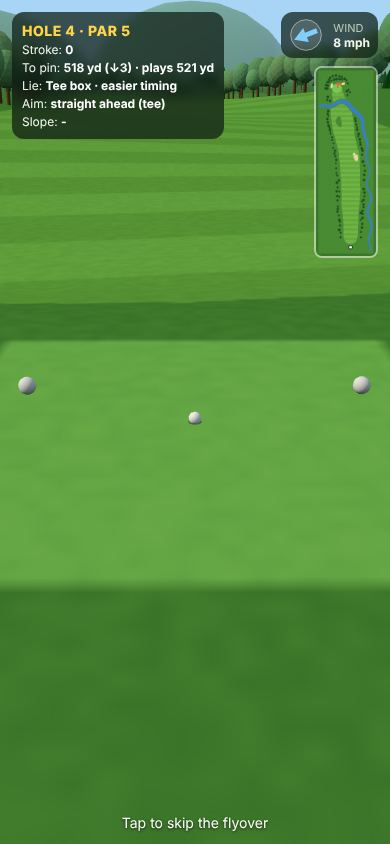
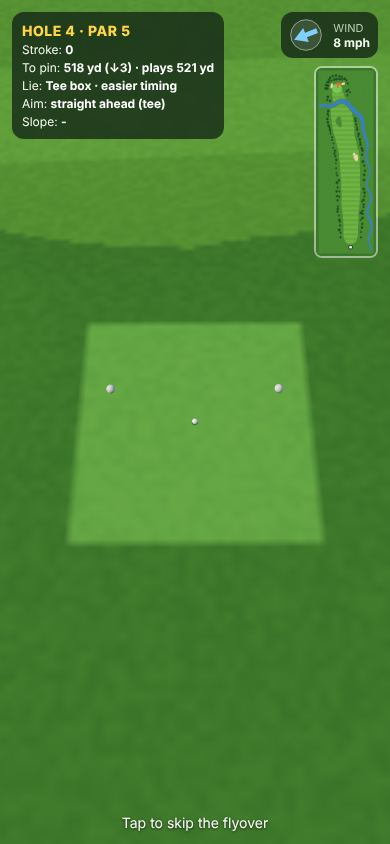
Flyover polish: DESIGN, new start screenshot
Claude-Session: https://claude.ai/code/session_01Rv6NgAADw2XvfsDiNgoB5v

diff --git a/docs/DESIGN.md b/docs/DESIGN.md
@@ -166,7 +166,7 @@ Where the camera stands is pure math in core (`src/core/views.js`, tests/views.t
 - ✅ **V1 aiming view** (owner on PR #63: "the aiming camera was fine before"; the 🔍 Landing button is how the player looks at the marker). **Main's camera**: 7 m behind the ball on the aim line, looking at the ground 30 m ahead (`CAM.aim`); putts 3.5 m back, 1.6 m up, looking 5 m ahead (`CAM.putt`, unchanged). The full-shot height is main's 2.6 m × **`CAM_AIM_HEIGHT`** (default 1 = main exactly, `?tune=`; the owner compared 1 / 1.25 / 1.5 on #63: "the today camera is the best"). One correction: when the ball would show below the **free band** (from the lowest top panel over the screen's centre down to the top of the meter panel, `session.js measureFrame`), the camera tilts down (same spot) so the ball sits at `CAM.ballMax` (97%) of the band. On main the ball hid behind the hint line in phone landscape and when facing a steep upslope. Wherever main showed the ball, the view is main's. The marker may be off screen (the landing button shows it). Test: on every hole, scenario and club, portrait and landscape, the ball is in the band.
 - ✅ **V2 view button** (small, above the meter on the left, only while aiming before click 1; ⏩ Skip uses the right side of that row while the ball moves). Optional: nothing needs it. A **tap** opens a view until tapped again, **holding** it (> `CAM.holdMs`, 300 ms) shows the view until it is released; **V** on a keyboard is a tap. Full shots: **🔍 Landing**, from behind and above the marker looking at it (the marker in the free band). Putts: **👁 Read** steps through **from above** (ball and cup both in the band, the putt up the screen, the grid if the green has one), then **low** (crouched 3 m behind the ball at 0.45 m, looking at the cup), then back. The label says what the next tap does (↩ Back on the last view). Aiming and changing club still work in a view; starting the swing (click 1) or a new shot returns to the aiming view.
 - ✅ **V3 flight camera variety** (`pickFlightView`): **behind** (the chase camera, as before), **side** (a spot 40% down the line and 17% of the carry to one side, at least 15 m up, above the canopy; it hands over to behind at the first bounce) and **landing** (25 m past the predicted landing, 9 m to one side, 7 m up, watching the ball come in and roll; behind once the ball runs 40 m past it). **The pause after the hit** (owner on #63: "one of the joys of golf is the pause after hitting the ball where you wonder where it is going"): after a full shot the camera stays at address for `CAM_FLIGHT_HOLD` (1.2 s) and only turns to watch the ball leave (`flightHolds`); then the chosen view starts (a standing camera is a cut and turns to keep the ball in view). `CAM_BEHIND_STAY` 1 keeps a behind shot at address until the ball first lands (only side and landing cut away). Putts don't hold. Rules: putts and shots carrying under `CAM_VARIETY_MIN` (60 m) are behind; otherwise a weighted draw `CAM_W_BEHIND` / `CAM_W_SIDE` / `CAM_W_LANDING` (0.5 / 0.25 / 0.25); no view more than `CAM_MAX_RUN` (2) shots in a row, landing never twice, counted **across the round** (PM on #63; it starts over with a new game or Play again). **Never blind:** a side or landing spot is used only if it is in bounds (the scenery forest stands outside OB) and sees the landing spot, the top of the flight and the start past the hills and the in-play trees and rocks. A side camera that can't first tries higher and further out (`CAM.side.tries`: +12 m, +12 m and 8% further, +25 m and 12%, +40 m and 18%; QA-1 on PR #64: full-power drives on the tree-lined mountain holes found no spot), then the same on the other side; a landing camera tries the other side; else behind. Side is possible from every Mountain 9 tee and landing area (test). **Seeded:** its own RNG stream (`createRng(hole seed ^ CAM.viewSalt)`, 2 numbers per shot), so the physics, lip-outs and leaves never change (baselines untouched). **Settings → Flight camera: Varied / Classic** (Classic = always behind; also `?tune=CAM_VARIETY:0`).
-- ✅ **V4 hole flyover** (`flyoverRoute`, `flyoverPath`): the hole's regular route only, tee → `aimTarget` (else the default tee aim point) → green, never the `playLine` corner (PM on #63); par 3: tee → green. Owner on #63: slower, starts behind the tee, no dive. It starts 12 m behind the tee box at 4.5 m, looking at it, rises to 32 m along the smoothed route, eases down to 22 m and **stops 35 m short of the cup above the green**, looking at the flag; travel = `length / CAM_FLYOVER_SPEED` (36 m/s, 40% of the first version), 6–18 s, on the real clock. Then it stays still `CAM_FLYOVER_PAUSE` (0.8 s) and slowly orbits 70° round the cup in `CAM_FLYOVER_ORBIT` (2.2 s), then eases (1.8 s, rising over the trees) into the tee's aiming view. A `flyover` game state (`states.js`) after the intro or hole card, then the tee's aiming view; meanwhile the bottom panel shows only the "Tap to skip the flyover" hint (PM on #63). **A tap, Space, Enter or ⏩ skips it**; it never swings. It plays the first time a hole starts from its tee in a game (each hole of a round, `?hole=` links, practice holes), not on `?scenario=` spots, a restart or Play again on one hole; a new round plays them again. **Settings → Hole flyover: On / Off** (default On). The tools (session-check, menu-check, baseline) skip it where they wait for aiming.
+- ✅ **V4 hole flyover** (`flyoverRoute`, `flyoverPath`): the hole's regular route only, tee → `aimTarget` (else the default tee aim point) → green, never the `playLine` corner (PM on #63); par 3: tee → green. Owner on #63: slow, a high start behind the tee, no dive, smooth. It starts 14 m behind the tee box and 20 m above it (measured from the higher of the tee and the ground behind it; higher still if a bank hides the tee), looking down at the tee and ball, then turns ahead over the first 100 m and eases to 20 m over the smoothed ground (never under 8 m). The route is a centripetal Catmull-Rom spline, smoothed and resampled every 2 m; the height follows the ground smoothed over ±40 m; the look target leads 110 m along the path, damped, and slides onto the flag over the last 120 m (the tee part is blended as a direction, so the view never swings under the camera). It **stops 35 m short of the cup at 18 m**, above the green, looking at the flag. Travel = `length / CAM_FLYOVER_SPEED` (45 m/s), 5–16 s, speeding up over the first 25% and slowing over the last 30%, on the real clock. Then `CAM_FLYOVER_PAUSE` (0.3 s) still, a slow 50° orbit round the cup in `CAM_FLYOVER_ORBIT` (1.4 s), and a 1.2 s ease (rising over the trees) into the tee's aiming view. Smoothness is tested on every hole (look ≤ 60°/s, look jerk ≤ 300°/s², heading ≤ 90°/s, climb ≤ 9 m/s at 30 Hz). A `flyover` game state (`states.js`) after the intro or hole card, then the tee's aiming view; meanwhile the bottom panel shows only the "Tap to skip the flyover" hint (PM on #63). **A tap, Space, Enter or ⏩ skips it**; it never swings. It plays the first time a hole starts from its tee in a game (each hole of a round, `?hole=` links, practice holes), not on `?scenario=` spots, a restart or Play again on one hole; a new round plays them again. **Settings → Hole flyover: On / Off** (default On). The tools (session-check, menu-check, baseline) skip it where they wait for aiming.
 
 ### Surface table (today's values: `rest` / `keep` / `decel`)
 The power cap and accuracy window per surface (`maxPower`, `sweetScale`) are in §3 "Lie". There is no `lie` power multiplier any more (removed in S11).
